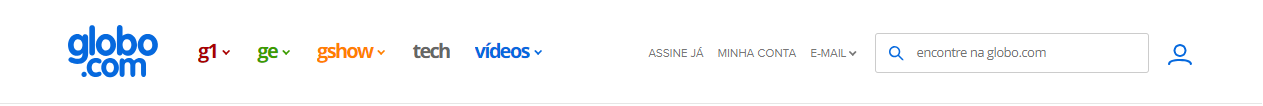
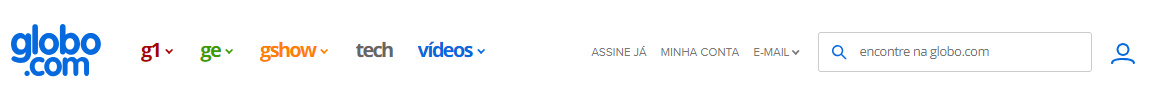
versao 1,1

diff --git a/index.html b/index.html
@@ -4,16 +4,17 @@
     <meta charset="utf-8">
     <title>Globo.com</title>
     <link rel="icon" href="img/favicon.ico"type="image/x-icon"/>
+    <link rel="stylesheet" href="index.css">
   </head>
   <body>
-      <img id="banner" src="img/barra.png" title="PrtScn">
+    <img id="banner" src="img/barra.png" title="PrtScn" height="98px"width="1175px">
+    <div id="esquerda">
       <div id="cabecalho">
-        <h1>Massacre em escola foi planejado por mais de um ano, diz policia</h1>
-        <p>MP de SP investigará eventual prática de 'terrorismo doméstico'</p>
+        <h1><a href="#"class="red">Massacre em escola foi planejado por mais de um ano, diz policia</a></h1>
+        <br>
+        <li>MP de SP investigará eventual prática de 'terrorismo doméstico'</li>
       </div>
-      <hr>
       <div id="noticias">
-
         <div id="noticias1">
           <img src="img/velorio.png" title="Velorio">
           <p>Familias velam corpos de 7 vitimas em são paulo
@@ -27,7 +28,6 @@
           <img src="img/casal.png" title="Casal">
           <p>Estudante volta por namorada e morre no ataque</p>
         </div>
-        <hr>
         <div id="noticias4">
           <img src="img/marielle.png" title="Marielle">
           <p>Atos marcam um ano da morte de Marielle no Rio</p>
@@ -40,15 +40,16 @@
           <img src="img/monta.png" title="Montagem">
           <p>Relembre 12 declarações que marcam o caso</p>
         </div>
-        <hr>
+        </div>
     </div>
+    <div id="direita">
       <div id="esporte">
         <div id="esporte1">
-        <img src="img/everton99.jpg" title="Everton">
+        <img src="img/everton99.jpg" title="Everton" >
         <h3>Éverton se multiplica e comanda melhor atuação do Fla no ano</h3>
          <li>Abel aposta em triangulações</li>
          </div>
-         <div id="esporteo2">
+         <div id="esporte2">
            <img src="img/nico.png" title="Uruguaio Nico López sonha com seleção">
            <h3>Uruguaio Nico López sonha com seleção</h3>
            <li>Nico López lidera Inter, vibra com feito inédito na Libertadores e sonha com seleção uruguaia</li>
@@ -58,7 +59,6 @@
            <h3>Jornal: Juventus 'fará de tudo' para unir Cristiano R. e Mbappé</h3>
          </div>
       </div>
-      <hr>
       <div id="intreterimento">
         <div id="intreterimento1">
           <img src="img/carol.png" title="Carol e Alan seguem brincadeiras com 'mozão' e 'ciumento'">
@@ -75,6 +75,7 @@
           <img src="img/manu.png" title="'Verão 90 ': Manu vê recepção da ex a João">
           <h3>'Verão 90 ': Manu vê recepção da ex a João</h3>
         </div>
+      </div>
       </div>
       <div id=rodape>
         <p>&copy; 14 de Março de 2019/Luiz Fernando </p>

diff --git a/index.css b/index.css
@@ -1,0 +1,105 @@
+*{
+  padding: 1px 10px 10px 12px;
+  margin: 0;
+  font: 13px arial, verdana, sans-serif black;
+}
+#esqueda{
+  float: left;
+}
+#direita{
+  float: right ;
+  margin-top: -600px;
+}
+#cabecalho{
+  color: #FF0000;
+  background-color:#fff;
+  width: 60%;
+  float: left;
+  margin: 20 20 0 auto;
+  padding: 10px 0px 10px 10px;
+}
+#cabecalho h1{
+  font-size: 50px;
+}
+a{
+  text-decoration: none;
+  color: red;
+}
+#noticias{
+  background-color: #fff;
+ width: 70%;
+ float: left;
+ margin: 0 auto;
+ padding: 0px 0px 0px 0px;
+}
+#noticias1{
+  background-color: #fff;
+  width: 206px;
+  height: 160px;
+  margin: 5px 5px 6px 0px;
+  float: left;
+  color: red;
+}
+#noticias2{
+  background-color: #fff;
+  width: 206px;
+  height: 160px;
+  margin: 5px 5px 6px 0px;
+  float: left;
+  color: red;
+}
+#noticias3{
+  background-color: #fff;
+  width: 206px;
+  height: 160px;
+  margin: 5px 5px 6px 0px;
+  float: left;
+  color: red;
+}
+#noticias4{
+  background-color: #fff;
+  width: 206px;
+  height: 160px;
+  margin: 5px 5px 5px 0px;
+  float: left;
+  color: red;
+}
+#noticias5{
+  background-color: #fff;
+  width: 206px;
+  height: 160px;
+  margin: 5px 5px 5px 0px;
+  float: left;
+  color: red;
+}
+#noticias6{
+  background-color: #fff;
+  width: 206px;
+  height: 160px;
+  margin: 5px 5px 5px 0px;
+  float: left;
+  color: red;
+}
+#esporte{
+  background-color: #fff;
+  width: 206px;
+  height: 160px;
+  margin: 8px 0px 13px 0px;
+  float: left;
+  color: green;
+}
+
+#intreterimento{
+  background-color: #fff;
+  width: 206px;
+  height: 160px;
+  margin: 8px 10px 13px 0px;
+  float: left;
+  color: orange;
+}
+#rodape{
+  clear: both;
+}
+.red:hover{
+  color:#DF0101;
+}
